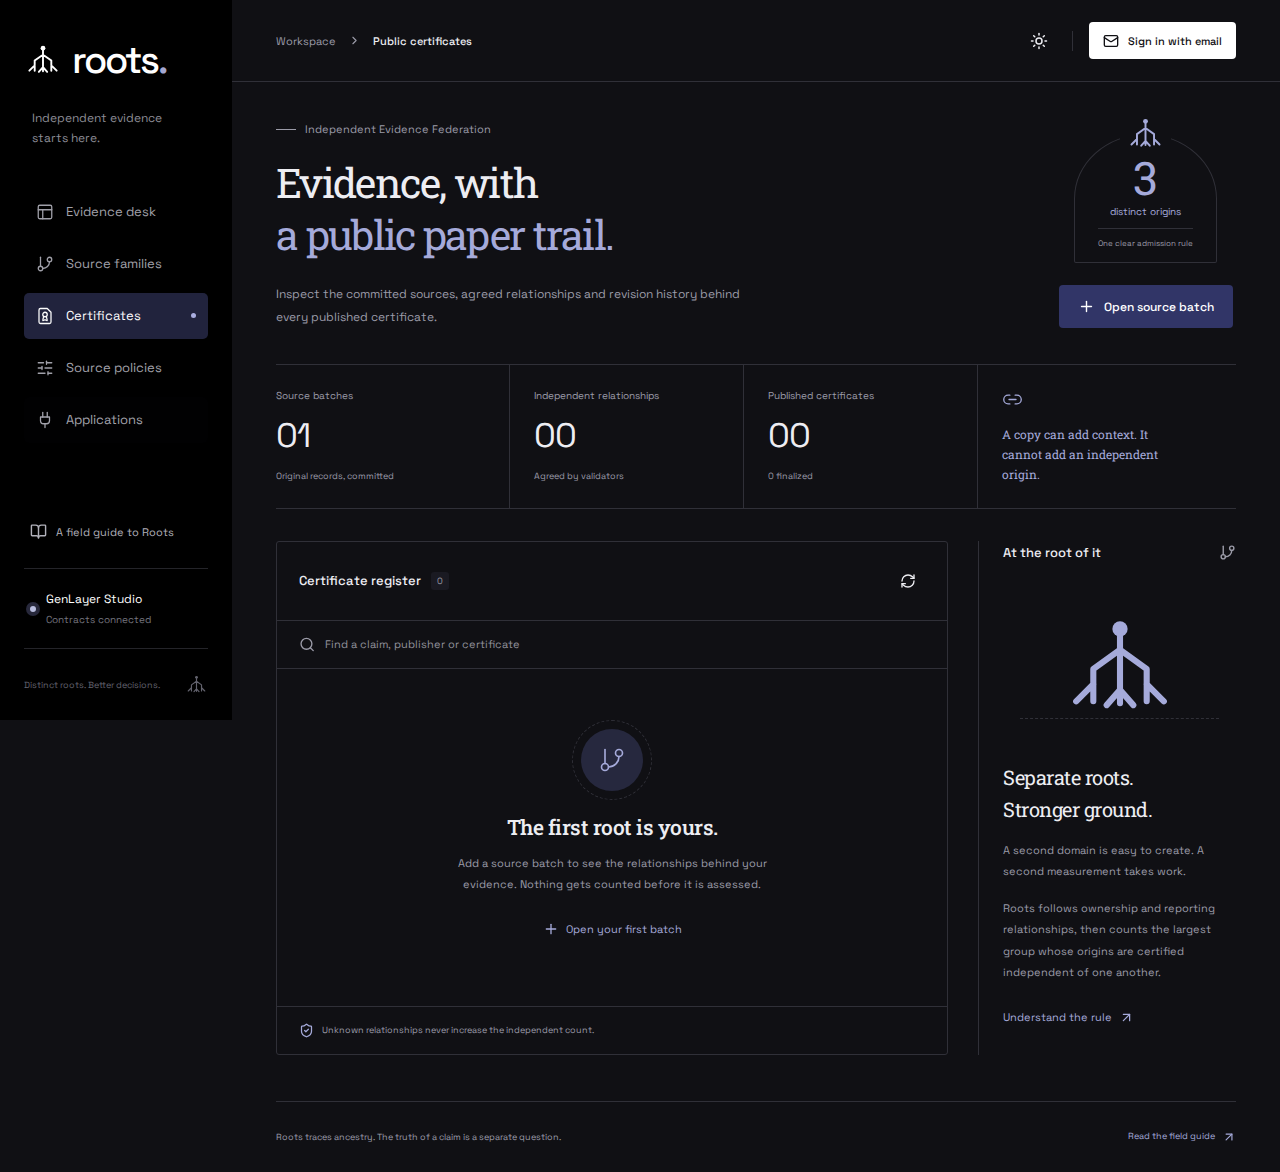
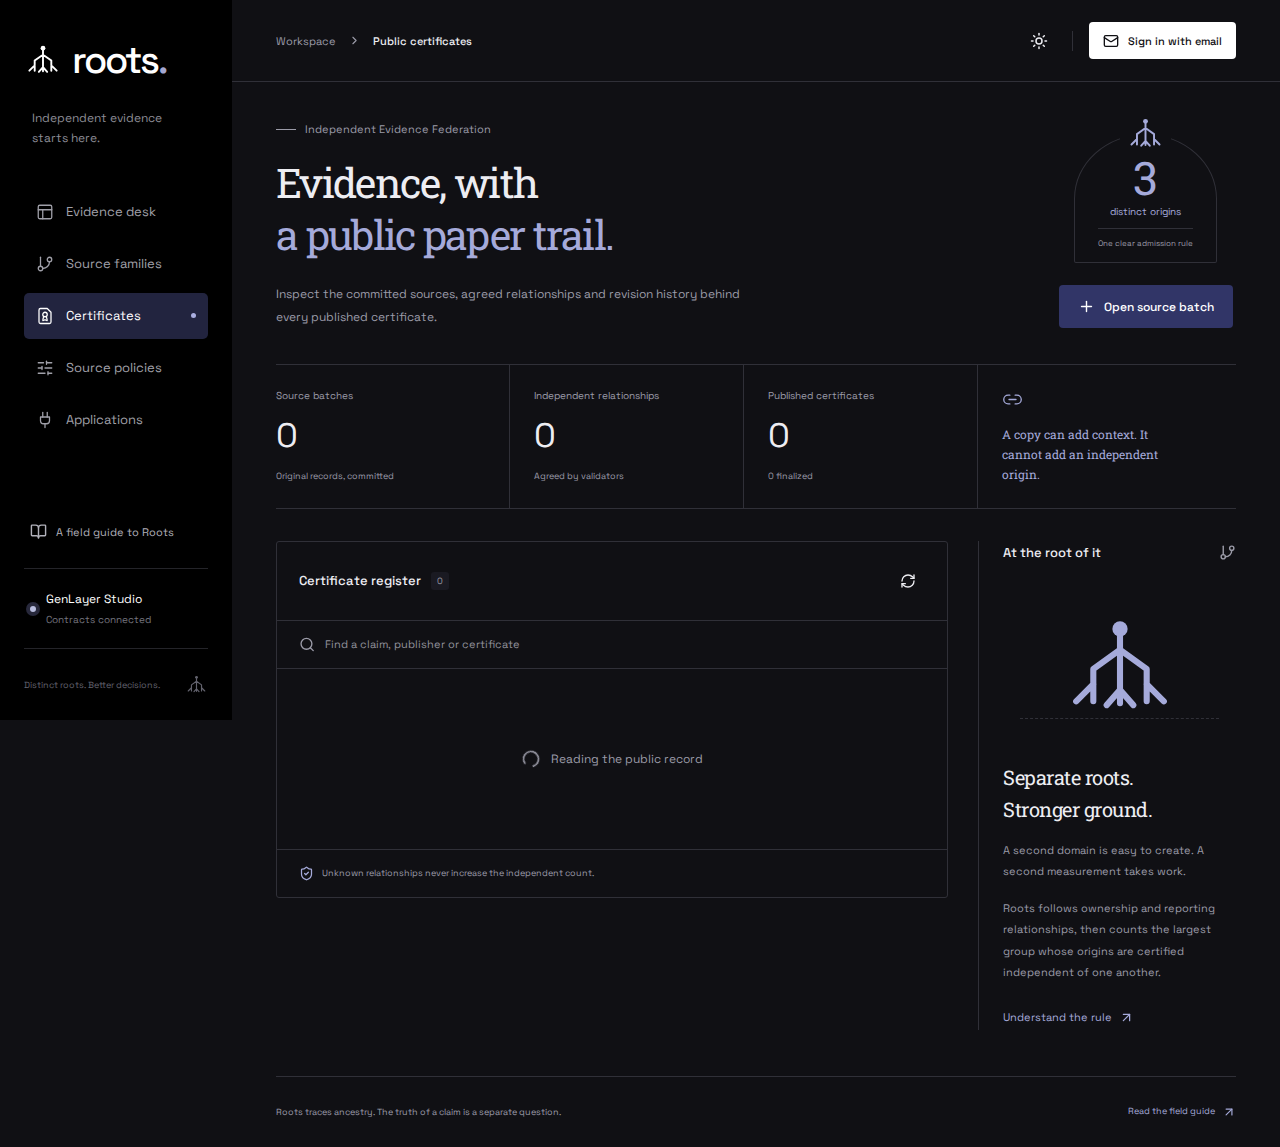
Load contract connections promptly and publish labelled validation sources

diff --git a/apps/web/src/App.tsx b/apps/web/src/App.tsx
@@ -15,7 +15,7 @@ export function App(){
  const [theme,setTheme]=useState(()=>localStorage.getItem('roots.theme')||'light');const [records,setRecords]=useState<Records>({batches:[],certificates:[],publishers:[],policies:[],indexed_at:null});
  const [deployment,setDeployment]=useState<Deployment|null>(null);const [loading,setLoading]=useState(true);const [error,setError]=useState('');const [query,setQuery]=useState('');const [selected,setSelected]=useState<string|null>(null);const [pair,setPair]=useState<string|null>(null);const [modal,setModal]=useState<'batch'|'guide'|'correction'|'policy'|'action'|'publisher'|'revision'|null>(null);const [publisher,setPublisher]=useState<Publisher|null>(null);const [busy,setBusy]=useState(false);const [notice,setNotice]=useState('');const [operations,setOperations]=useState<Operation[]>([]);
  const {write,address}=useTransactions(deployment);
- const refresh=useCallback(async()=>{setError('');try{const [d,r]=await Promise.all([api<Deployment>('/deployment'),api<Records>('/records')]);setDeployment(d);setRecords(r);}catch(e){setError((e as Error).message);}finally{setLoading(false);}},[]);
+ const refresh=useCallback(async()=>{setError('');try{await Promise.all([api<Deployment>('/deployment').then(setDeployment),api<Records>('/records').then(setRecords)]);}catch(e){setError((e as Error).message);}finally{setLoading(false);}},[]);
  useEffect(()=>{void refresh();const id=setInterval(()=>void refresh(),60000);return ()=>clearInterval(id);},[refresh]);
  useEffect(()=>{document.documentElement.dataset.theme=theme;localStorage.setItem('roots.theme',theme);},[theme]);
  useEffect(()=>{const onPop=()=>{const p=location.pathname.slice(1);setPage(navigation.some(n=>n.id===p)?p as Page:'desk');};window.addEventListener('popstate',onPop);return ()=>window.removeEventListener('popstate',onPop);},[]);
@@ -26,9 +26,9 @@ export function App(){
  const collection=page==='certificates'?records.certificates:records.batches.map(b=>b.status==='SEALED'?(records.certificates.find(c=>c.certificate_id===b.certificate_id)||b):b);const visible=collection.filter(b=>[b.subject_id,b.request_id,b.policy_id,...b.supported_origin_ids].some(s=>s.toLowerCase().includes(query.toLowerCase())));const active=collection.find(b=>b.request_id===selected||b.certificate_id===selected)||visible[0]||null;
  const finalized=records.certificates.filter(c=>c.status==='FINALIZED');const suspended=records.certificates.filter(c=>['QUARANTINED','SUPERSEDED'].includes(c.status));
  const independentPairs=records.batches.reduce((count,b)=>count+Object.values(b.pairs).filter(p=>p.relation==='INDEPENDENT').length,0);const duplicatePairs=records.batches.reduce((count,b)=>count+Object.values(b.pairs).filter(p=>p.relation==='SHARED_ORIGIN').length,0);
- return <div className="shell"><aside className="sidebar"><a href="/" className="brand" onClick={e=>{e.preventDefault();navigate('desk');}} aria-label="Roots home"><Mark size={38}/><span>roots<span className="brand-period">.</span></span></a><p className="brand-caption">Independent evidence<br/>starts here.</p><nav aria-label="Main navigation">{navigation.map(n=><a href={n.id==='desk'?'/':'/'+n.id} onClick={e=>{e.preventDefault();navigate(n.id);}} key={n.id} className={page===n.id?'nav-item active':'nav-item'} aria-current={page===n.id?'page':undefined}><n.icon size={18} strokeWidth={1.7}/><span>{n.label}</span>{page===n.id&&<span className="nav-indicator"/>}</a>)}</nav><div className="sidebar-bottom"><button className="guide-link" onClick={()=>setModal('guide')}><BookOpen size={17}/><span>A field guide to Roots</span></button><div className="network-line"><span className={deployment?.contracts.certificate_hub?'network-dot connected':'network-dot'}/><span>GenLayer Studio<small>{deployment?.contracts.certificate_hub?'Contracts connected':'Connecting to the registry'}</small></span></div><div className="sidebar-foot"><span>Distinct roots. Better decisions.</span><Mark size={23}/></div></div></aside><div className="main-shell"><header className="topbar"><div className="breadcrumb"><span>Workspace</span><ChevronRight size={13}/><strong>{pageTitles[page]}</strong></div><div className="top-actions"><button className="icon-button" onClick={()=>setTheme(theme==='light'?'dark':'light')} aria-label={`Switch to ${theme==='light'?'dark':'light'} mode`}>{theme==='light'?<Moon size={18}/>:<Sun size={18}/>}</button><span className="header-divider"/>{authenticated?<button className="account-button" onClick={()=>void logout()} title="Sign out"><span className="avatar">{user?.email?.address?.[0].toUpperCase()||'R'}</span><span>{user?.email?.address?.split('@')[0]}</span><LogOut size={15}/></button>:<button className="button sign-in" onClick={()=>login({loginMethods:['email']})} disabled={!ready}><Mail size={16}/> Sign in with email</button>}</div></header><main><div className="page-heading"><div><div className="page-context"><span className="context-line"/> Independent Evidence Federation</div><h1>{page==='desk'?<>More sources.<br/><em>Or more of the same?</em></>:page==='sources'?<>Follow the story<br/><em>back to its roots.</em></>:page==='certificates'?<>Evidence, with<br/><em>a public paper trail.</em></>:page==='policies'?<>Set the standard.<br/><em>Keep it consistent.</em></>:<>Good evidence.<br/><em>Real consequences.</em></>}</h1><p className="heading-description">{page==='desk'?'Three articles can repeat one story. Roots finds the separate reporting behind your evidence, so every origin earns its place.':page==='sources'?'Ownership, citations and syndication matter. A different address does not always mean a different voice.':page==='certificates'?'Inspect the committed sources, agreed relationships and revision history behind every published certificate.':page==='policies'?'An independence rule belongs to the application using it. Lock the rule before the evidence is reviewed.':'Two separately controlled applications use the same strict boundary. Three independent origins before admission.'}</p></div><div className="heading-side"><div className="policy-seal"><div className="seal-root"><Mark size={39}/></div><span className="seal-number">3</span><span>distinct origins</span><small>One clear admission rule</small></div><button className="button" onClick={()=>requireLogin(()=>setModal(page==='policies'?'policy':page==='sources'?'publisher':'batch'))}><Plus size={17}/>{page==='policies'?'Register a policy':page==='sources'?'Register publisher':'Open source batch'}</button></div></div>{notice&&<div className="notice" role="status"><Check size={17}/><span>{notice}</span><button className="text-button" onClick={()=>setNotice('')}>Dismiss</button></div>}{error&&<div className="error-banner" role="alert"><Info size={18}/><span>{error}</span><button className="text-button" onClick={()=>void refresh()}><RefreshCw size={15}/> Try again</button></div>}{records.stale&&<div className="notice"><Clock3 size={17}/>Showing the last indexed record. Current contract state is checked before any admission.</div>}
+ return <div className="shell"><aside className="sidebar"><a href="/" className="brand" onClick={e=>{e.preventDefault();navigate('desk');}} aria-label="Roots home"><Mark size={38}/><span>roots<span className="brand-period">.</span></span></a><p className="brand-caption">Independent evidence<br/>starts here.</p><nav aria-label="Main navigation">{navigation.map(n=><a href={n.id==='desk'?'/':'/'+n.id} onClick={e=>{e.preventDefault();navigate(n.id);}} key={n.id} className={page===n.id?'nav-item active':'nav-item'} aria-current={page===n.id?'page':undefined}><n.icon size={18} strokeWidth={1.7}/><span>{n.label}</span>{page===n.id&&<span className="nav-indicator"/>}</a>)}</nav><div className="sidebar-bottom"><button className="guide-link" onClick={()=>setModal('guide')}><BookOpen size={17}/><span>A field guide to Roots</span></button><div className="network-line"><span className={deployment?.contracts.certificate_hub?'network-dot connected':'network-dot'}/><span>GenLayer Studio<small>{deployment?.contracts.certificate_hub?'Contracts connected':'Connecting to the registry'}</small></span></div><div className="sidebar-foot"><span>Distinct roots. Better decisions.</span><Mark size={23}/></div></div></aside><div className="main-shell"><header className="topbar"><div className="breadcrumb"><span>Workspace</span><ChevronRight size={13}/><strong>{pageTitles[page]}</strong></div><div className="top-actions"><button className="icon-button" onClick={()=>setTheme(theme==='light'?'dark':'light')} aria-label={`Switch to ${theme==='light'?'dark':'light'} mode`}>{theme==='light'?<Moon size={18}/>:<Sun size={18}/>}</button><span className="header-divider"/>{authenticated?<button className="account-button" onClick={()=>void logout()} title="Sign out"><span className="avatar">{user?.email?.address?.[0].toUpperCase()||'R'}</span><span>{user?.email?.address?.split('@')[0]}</span><LogOut size={15}/></button>:<button className="button sign-in" onClick={()=>login({loginMethods:['email']})} disabled={!ready}><Mail size={16}/> Sign in with email</button>}</div></header><main><div className="page-heading"><div><div className="page-context"><span className="context-line"/> Independent Evidence Federation</div><h1>{page==='desk'?<>More sources.<br/><em>Or more of the same?</em></>:page==='sources'?<>Follow the story<br/><em>back to its roots.</em></>:page==='certificates'?<>Evidence, with<br/><em>a public paper trail.</em></>:page==='policies'?<>Set the standard.<br/><em>Keep it consistent.</em></>:<>Good evidence.<br/><em>Real consequences.</em></>}</h1><p className="heading-description">{page==='desk'?'Three articles can repeat one story. Roots finds the separate reporting behind your evidence, so every origin earns its place.':page==='sources'?'Ownership, citations and syndication matter. A different address does not always mean a different voice.':page==='certificates'?'Inspect the committed sources, agreed relationships and revision history behind every published certificate.':page==='policies'?'An independence rule belongs to the application using it. Lock the rule before the evidence is reviewed.':'Two separately controlled applications use the same strict boundary. Three independent origins before admission.'}</p></div><div className="heading-side"><div className="policy-seal"><div className="seal-root"><Mark size={39}/></div><span className="seal-number">3</span><span>distinct origins</span><small>One clear admission rule</small></div><button className="button" disabled={!deployment?.contracts.source_registry||!ready} onClick={()=>requireLogin(()=>setModal(page==='policies'?'policy':page==='sources'?'publisher':'batch'))}><Plus size={17}/>{page==='policies'?'Register a policy':page==='sources'?'Register publisher':'Open source batch'}</button></div></div>{notice&&<div className="notice" role="status"><Check size={17}/><span>{notice}</span><button className="text-button" onClick={()=>setNotice('')}>Dismiss</button></div>}{error&&<div className="error-banner" role="alert"><Info size={18}/><span>{error}</span><button className="text-button" onClick={()=>void refresh()}><RefreshCw size={15}/> Try again</button></div>}{records.stale&&<div className="notice"><Clock3 size={17}/>Showing the last indexed record. Current contract state is checked before any admission.</div>}
  {(page==='desk'||page==='certificates')&&<><div className="stats-strip"><div><span>Source batches</span><strong>{records.batches.length}</strong><small>Original records, committed</small></div><div><span>Independent relationships</span><strong>{independentPairs}</strong><small>Agreed by validators</small></div><div><span>Published certificates</span><strong>{records.certificates.length}</strong><small>{finalized.length} finalized{records.certificates.length?`, ${suspended.length} suspended or superseded`:''}</small></div><div className="stat-insight"><Link2 size={21} strokeWidth={1.5}/><p>{duplicatePairs?`${duplicatePairs} shared relationships found. Those copies count together.`:'A copy can add context. It cannot add an independent origin.'}</p></div></div><div className="desk-layout"><section className="evidence-panel"><div className="section-bar"><div className="section-title"><h2>{page==='certificates'?'Certificate register':'Your evidence, under review'}</h2><span className="count-pill">{visible.length}</span></div><button className="icon-button" onClick={()=>void refresh()} aria-label="Refresh public records"><RefreshCw size={16}/></button></div><div className="search-row"><Search size={17}/><input aria-label="Search source batches" placeholder="Find a claim, publisher or certificate" value={query} onChange={e=>setQuery(e.target.value)}/></div>{loading?<Loading/>:!visible.length?<Empty title={query?'No matching records':'The first root is yours.'} action={!query&&<button className="text-button" onClick={()=>requireLogin(()=>setModal('batch'))}><Plus size={16}/> Open your first batch</button>}>{query?'Try a different claim or publisher name.':'Add a source batch to see the relationships behind your evidence. Nothing gets counted before it is assessed.'}</Empty>:<><div className="batch-list">{visible.map(b=><button className={`batch-row ${active===b?'active':''}`} key={b.certificate_id||b.request_id} onClick={()=>{setSelected(page==='certificates'?b.certificate_id:b.request_id);setPair(null);}}><div className="batch-icon"><FileText size={19}/></div><div className="batch-summary"><strong>{b.subject_id}</strong><small>{b.manifest.length} sources <span>Revision {b.generation}</span></small></div><Status status={b.status}/><ChevronRight size={16}/></button>)}</div>{active&&<Lattice batch={active} onPair={setPair} selectedPair={pair}/>}</> }<div className="panel-foot"><ShieldCheck size={15}/><span>Unknown relationships never increase the independent count.</span></div></section><aside className="inspection-panel"><div className="section-bar"><h2>{pair?'Relationship record':'At the root of it'}</h2><GitBranch size={17}/></div>{active?<>{pair&&active.pairs[pair]?<Witnesses decision={active.pairs[pair]} manifest={active.manifest}/>:<><div className="certificate-count"><strong>{active.selected_subset.length}</strong><span>certified origins<small>from {active.manifest.length} submitted sources</small></span></div><Status status={active.status}/><p className="inspector-copy">{active.status==='FINALIZED'&&active.selected_subset.length>=3?'This certificate meets the three origin rule. The subscribing application still checks its exact decision bindings.':active.status==='PROVISIONAL'?'The matrix is still being assessed. Your application will wait for a complete, finalized certificate.':'This revision cannot support a fresh admission until its required conditions are met.'}</p><dl className="record-details"><div><dt>Policy</dt><dd>{active.policy_id}</dd></div><div><dt>Revision</dt><dd>{active.generation}</dd></div><div><dt>Coverage</dt><dd>{active.coverage?'Complete':'Unresolved'}</dd></div><div><dt>Deadline</dt><dd>{new Date(active.deadline).toLocaleDateString()}</dd></div></dl>{active.supported_origin_ids.length>0&&<div className="supported"><h3>Selected origins</h3>{active.supported_origin_ids.map(id=><span key={id}><ShieldCheck size={14}/>{id}</span>)}</div>}</>}{pair&&!active.pairs[pair]&&<p className="muted">This pair is waiting for assessment.</p>}<div className="inspection-actions">{authenticated&&active.owner.toLowerCase()===address?.toLowerCase()&&active.status==='QUARANTINED'&&<button className="button full" disabled={busy} onClick={()=>setModal('revision')}>Review updated disclosures</button>}{active.status==='PROVISIONAL'&&<button className="button full" disabled={busy} onClick={()=>requireLogin(()=>{const n=active.manifest.length;const next=pair||Array.from({length:n},(_,a)=>Array.from({length:n},(_,b)=>b>a?`${a}:${b}`:'')).flat().find(k=>k&&!active.pairs[k]);if(next){const [a,b]=next.split(':').map(Number);void transact('relation_docket','assess_pair',[active.request_id,active.generation,a,b]);}else void transact('relation_docket','seal_batch',[active.request_id,active.generation,canonical(selectMaximum(active.manifest,active.pairs))]);})}>{busy?<LoaderCircle size={16} className="spinner"/>:<ShieldCheck size={16}/>} {Object.keys(active.pairs).length===active.manifest.length*(active.manifest.length-1)/2?'Seal complete matrix':'Assess next relationship'}</button>}{authenticated&&active.owner.toLowerCase()===address?.toLowerCase()&&pair&&active.pairs[pair]&&<button className="button secondary full" disabled={busy} onClick={()=>{const [a,b]=pair.split(':').map(Number);void transact('relation_docket','appeal_relation',[crypto.randomUUID(),active.request_id,active.generation,a,b]);}}>Appeal this relationship</button>}{['FINALIZED','UNRESOLVED'].includes(active.status)&&<button className="button full" onClick={()=>requireLogin(()=>void transact('certificate_hub','deliver_certificate',[crypto.randomUUID(),active.certificate_id,active.consumer]))} disabled={busy}><Plug size={16}/> Deliver certificate</button>}<button className="text-button" onClick={()=>{const blob=new Blob([JSON.stringify(active,null,2)],{type:'application/json'});const url=URL.createObjectURL(blob);const a=document.createElement('a');a.href=url;a.download='roots-certificate.json';a.click();URL.revokeObjectURL(url);}}>Download public record <ArrowUpRight size={15}/></button></div></>:<><div className="root-illustration" aria-hidden="true"><Mark size={122}/><div className="root-ground"/></div><h3>Separate roots.<br/>Stronger ground.</h3><p className="inspector-copy">A second domain is easy to create. A second measurement takes work.</p><p className="inspector-copy">Roots follows ownership and reporting relationships, then counts the largest group whose origins are certified independent of one another.</p><button className="text-button" onClick={()=>setModal('guide')}>Understand the rule <ArrowUpRight size={15}/></button></>}</aside></div></>}
- {page==='sources'&&<section className="registry-section"><div className="section-bar"><h2>Disclosed publishers</h2><span className="count-pill">{records.publishers.length}</span></div>{loading?<Loading/>:!records.publishers.length?<Empty title="The source register is open.">Publisher principals and their public organizational evidence appear here once the registry owner registers them.</Empty>:<div className="publisher-list">{records.publishers.map(p=><article className="publisher-row" key={p.publisher_id}><div className="publisher-mark"><Mark size={30}/></div><div><h3>{p.publisher_id}</h3><p>{p.evidence.scope}</p><a href={p.evidence.url} target="_blank" rel="noreferrer">Public ownership disclosure <ExternalLink size={13}/></a></div><div className="publisher-meta"><Status status={p.status==='ACTIVE'?'FINALIZED':'QUARANTINED'}/><small>Disclosure revision {p.revision}</small><button className="text-button" onClick={()=>requireLogin(()=>{setPublisher(p);setModal('correction');})}>Correct affiliation</button></div></article>)}</div>}<div className="editorial-note"><h3>Different owners can share a server.</h3><p>Shared hosting alone does not establish common editorial control. Public ownership disclosures and original reporting do the heavy lifting.</p></div></section>}
+ {page==='sources'&&<section className="registry-section"><div className="section-bar"><h2>Disclosed publishers</h2><span className="count-pill">{records.publishers.length}</span></div>{loading?<Loading/>:!records.publishers.length?<Empty title="The source register is open.">Publisher principals and their public organizational evidence appear here once they are registered.</Empty>:<div className="publisher-list">{records.publishers.map(p=><article className="publisher-row" key={p.publisher_id}><div className="publisher-mark"><Mark size={30}/></div><div><h3>{p.publisher_id}</h3><p>{p.evidence.scope}</p><a href={p.evidence.url} target="_blank" rel="noreferrer">Public ownership disclosure <ExternalLink size={13}/></a></div><div className="publisher-meta"><Status status={p.status==='ACTIVE'?'FINALIZED':'QUARANTINED'}/><small>Disclosure revision {p.revision}</small><button className="text-button" onClick={()=>requireLogin(()=>{setPublisher(p);setModal('correction');})}>Correct affiliation</button></div></article>)}</div>}<div className="editorial-note"><h3>Different owners can share a server.</h3><p>Shared hosting alone does not establish common editorial control. Public ownership disclosures and original reporting do the heavy lifting.</p></div></section>}
  {page==='policies'&&<section className="registry-section"><div className="section-bar"><h2>Registered rules</h2><span className="count-pill">{records.policies.length}</span></div>{loading?<Loading/>:!records.policies.length?<Empty title="A rule comes before a verdict.">The configured policy owner registers each immutable policy version before a batch is opened.</Empty>:records.policies.map(p=><article className="policy-document" key={p.policy_id+p.revision}><div className="policy-document-top"><SlidersHorizontal size={22}/><Status status="FINALIZED"/></div><h2>{p.name||p.policy_id}</h2><p>Require three origins that are pairwise certified independent. Every relationship must be terminal before publication.</p><div className="policy-rules"><div><span>Minimum origins</span><strong>{p.min_origins}</strong></div><div><span>Source limit</span><strong>{p.max_sources}</strong></div><div><span>Version</span><strong>{p.revision}</strong></div></div><div className="policy-consequence"><ShieldCheck size={18}/><span>Unresolved evidence means admission is refused.</span></div></article>)}<div className="editorial-note"><h3>No moving goalposts.</h3><p>A new policy version applies to new requests. The rule, subject and intended consequence stay locked for a request already under review.</p></div></section>}
  {page==='applications'&&<section className="application-section">{[{key:'incident_consumer',name:'Incident evidence',purpose:'Admission of an incident into an evidence registry.',owner:'incident',icon:ShieldCheck},{key:'disclosure_consumer',name:'Provider disclosure',purpose:'Admission of a provider disclosure into a public register.',owner:'disclosure',icon:FileBadge2}].map(a=><article className="application-document" key={a.key}><div className="application-top"><a.icon size={26}/><span>{deployment?.contracts[a.key as keyof Deployment['contracts']]?'Connected':'Awaiting deployment'}</span></div><h2>{a.name}</h2><p>{a.purpose}</p><div className="admission-rule"><strong>3</strong><span>Independent origins<br/>Exact batch approval<br/>Finalized delivery</span></div><dl className="record-details"><div><dt>Unresolved evidence</dt><dd>Refuse admission</dd></div><div><dt>Correction</dt><dd>Suspend fresh admission</dd></div><div><dt>Control</dt><dd>Separate application owner</dd></div></dl><button className="button secondary" onClick={()=>requireLogin(()=>setModal('action'))}><Plug size={16}/> Review a batch</button>{deployment?.contracts[a.key as keyof Deployment['contracts']]&&<a className="contract-link" href={`https://studio.genlayer.com/contracts/${deployment.contracts[a.key as keyof Deployment['contracts']]?.address}`} target="_blank" rel="noreferrer">View application contract <ExternalLink size={13}/></a>}</article>)}<div className="editorial-note"><h3>The certificate is the beginning of a decision.</h3><p>Each application controls its own configuration, delivery acknowledgements and admissions. A publisher cannot approve evidence on an application’s behalf.</p></div></section>}
  {authenticated&&operations.length>0&&<section className="operations-section"><div className="section-bar"><h2>Your recent requests</h2><Clock3 size={17}/></div>{operations.slice(0,5).map(o=><div className="operation-row" key={o.operation_id}><span>{o.method.replaceAll('_',' ')}</span><Status status={o.delivery_status==='DELIVERED'?'DELIVERED':o.delivery_status==='DELIVERY_FAILED'?'DELIVERY_FAILED':o.delivery_status==='AWAITING_DELIVERY'?'AWAITING_DELIVERY':o.execution_success===false?(o.method==='deliver_certificate'?'DELIVERY_FAILED':'REFUSED'):o.status}/>{o.status==='PENDING'&&!o.transaction_hash&&<button className="text-button" onClick={()=>void api(`/operations/${o.operation_id}/cancel`,{},true).then(()=>setNotice('Your unsigned request was cancelled.')).catch(e=>setError((e as Error).message))}>Cancel</button>}{o.transaction_hash&&<a href={`https://studio.genlayer.com/transactions/${o.transaction_hash}`} target="_blank" rel="noreferrer" aria-label="View transaction"><ExternalLink size={14}/></a>}</div>)}</section>}
